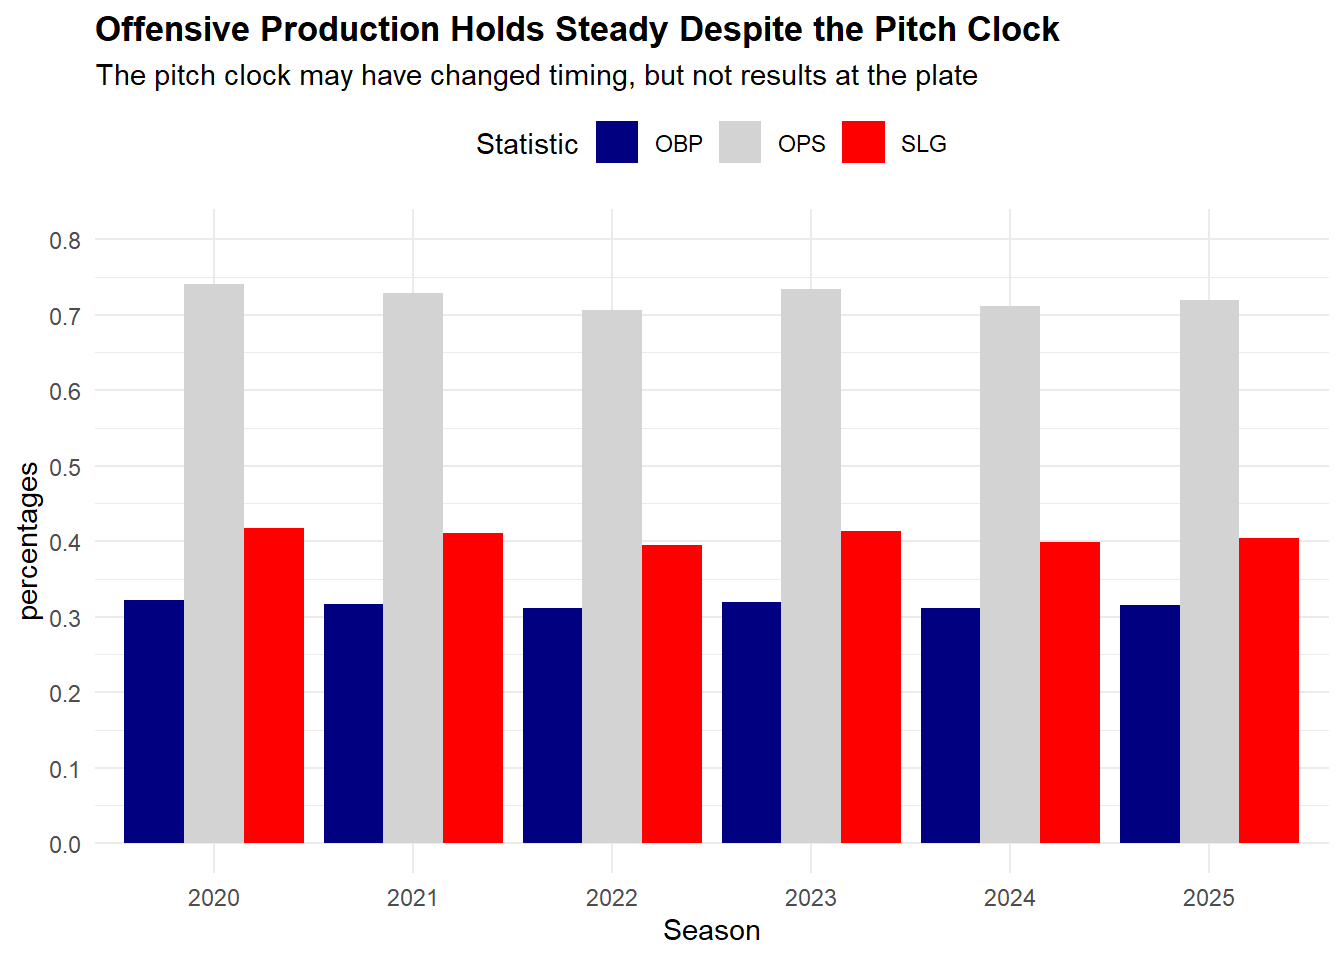
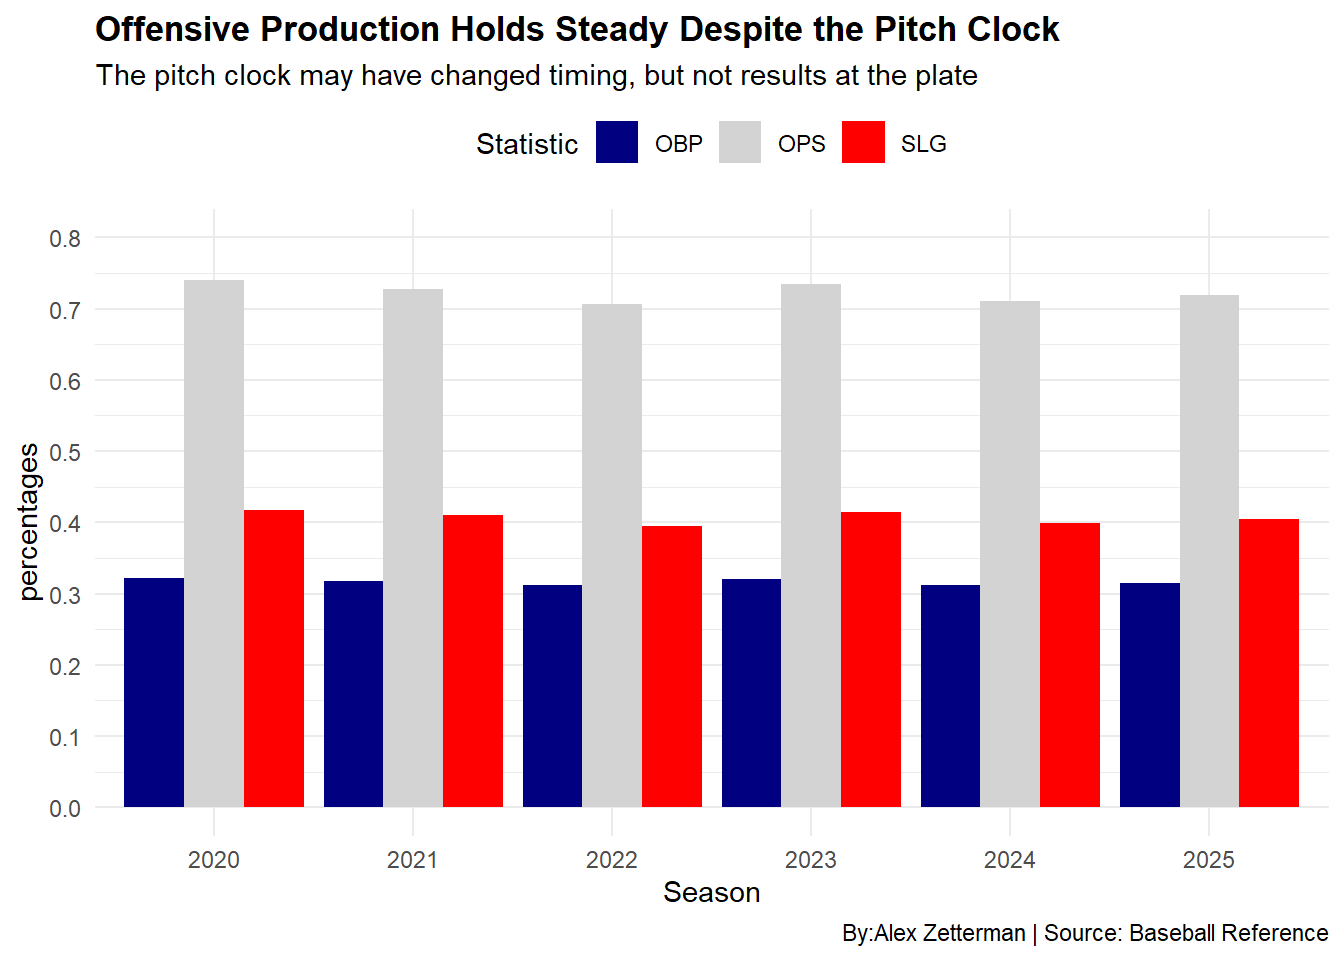
edit

diff --git a/posts/MLB-Pitch-Clock/index.html b/posts/MLB-Pitch-Clock/index.html
@@ -460,15 +460,16 @@ dbl (29): Year, Tms, #Bat, BatAge, R/G, G, PA, AB, R, H, 1B, 2B, 3B, HR, SB,...
 <span id="cb8-27"><a href="#cb8-27" aria-hidden="true" tabindex="-1"></a>  <span class="fu">labs</span>(</span>
 <span id="cb8-28"><a href="#cb8-28" aria-hidden="true" tabindex="-1"></a>    <span class="at">title =</span> <span class="st">"Offensive Production Holds Steady Despite the Pitch Clock"</span>,</span>
 <span id="cb8-29"><a href="#cb8-29" aria-hidden="true" tabindex="-1"></a>    <span class="at">subtitle=</span> <span class="st">"The pitch clock may have changed timing, but not results at the plate"</span>,</span>
-<span id="cb8-30"><a href="#cb8-30" aria-hidden="true" tabindex="-1"></a>    <span class="at">x =</span> <span class="st">"Season"</span>,</span>
-<span id="cb8-31"><a href="#cb8-31" aria-hidden="true" tabindex="-1"></a>    <span class="at">y =</span> <span class="st">"percentages"</span>,</span>
-<span id="cb8-32"><a href="#cb8-32" aria-hidden="true" tabindex="-1"></a>    <span class="at">fill =</span> <span class="st">"Statistic"</span></span>
-<span id="cb8-33"><a href="#cb8-33" aria-hidden="true" tabindex="-1"></a>  ) <span class="sc">+</span></span>
-<span id="cb8-34"><a href="#cb8-34" aria-hidden="true" tabindex="-1"></a>  <span class="fu">theme_minimal</span>(<span class="at">base_size =</span> <span class="dv">11</span>) <span class="sc">+</span></span>
-<span id="cb8-35"><a href="#cb8-35" aria-hidden="true" tabindex="-1"></a>  <span class="fu">theme</span>(</span>
-<span id="cb8-36"><a href="#cb8-36" aria-hidden="true" tabindex="-1"></a>    <span class="at">plot.title =</span> <span class="fu">element_text</span>(<span class="at">face =</span> <span class="st">"bold"</span>),</span>
-<span id="cb8-37"><a href="#cb8-37" aria-hidden="true" tabindex="-1"></a>    <span class="at">legend.position =</span> <span class="st">"top"</span></span>
-<span id="cb8-38"><a href="#cb8-38" aria-hidden="true" tabindex="-1"></a>  )</span></code></pre></div><button title="Copy to Clipboard" class="code-copy-button"><i class="bi"></i></button></div>
+<span id="cb8-30"><a href="#cb8-30" aria-hidden="true" tabindex="-1"></a>    <span class="at">caption =</span> <span class="st">"By:Alex Zetterman | Source: Baseball Reference"</span>,</span>
+<span id="cb8-31"><a href="#cb8-31" aria-hidden="true" tabindex="-1"></a>    <span class="at">x =</span> <span class="st">"Season"</span>,</span>
+<span id="cb8-32"><a href="#cb8-32" aria-hidden="true" tabindex="-1"></a>    <span class="at">y =</span> <span class="st">"percentages"</span>,</span>
+<span id="cb8-33"><a href="#cb8-33" aria-hidden="true" tabindex="-1"></a>    <span class="at">fill =</span> <span class="st">"Statistic"</span></span>
+<span id="cb8-34"><a href="#cb8-34" aria-hidden="true" tabindex="-1"></a>  ) <span class="sc">+</span></span>
+<span id="cb8-35"><a href="#cb8-35" aria-hidden="true" tabindex="-1"></a>  <span class="fu">theme_minimal</span>(<span class="at">base_size =</span> <span class="dv">11</span>) <span class="sc">+</span></span>
+<span id="cb8-36"><a href="#cb8-36" aria-hidden="true" tabindex="-1"></a>  <span class="fu">theme</span>(</span>
+<span id="cb8-37"><a href="#cb8-37" aria-hidden="true" tabindex="-1"></a>    <span class="at">plot.title =</span> <span class="fu">element_text</span>(<span class="at">face =</span> <span class="st">"bold"</span>),</span>
+<span id="cb8-38"><a href="#cb8-38" aria-hidden="true" tabindex="-1"></a>    <span class="at">legend.position =</span> <span class="st">"top"</span></span>
+<span id="cb8-39"><a href="#cb8-39" aria-hidden="true" tabindex="-1"></a>  )</span></code></pre></div><button title="Copy to Clipboard" class="code-copy-button"><i class="bi"></i></button></div>
 </details>
 <div class="cell-output-display">
 <div>
@@ -478,46 +479,45 @@ dbl (29): Year, Tms, #Bat, BatAge, R/G, G, PA, AB, R, H, 1B, 2B, 3B, HR, SB,...
 </div>
 </div>
 </div>
-<pre><code></code></pre>
-<p>```{r}#| include: false} ggsave(“image.png”)</p>
 <p>At first glance, the pitch clock doesn’t seem to have shaken up offensive production. League-wide OPS, OBP, and SLG have held steady from 2020 through 2025, suggesting that hitters aren’t necessarily getting on base more or hitting for more power. But, offensive stats like OPS,OBP, and SLG only tell part of the story. The pitch clock didn’t necessarily change how much offense was involved, it just changed how teams got their offense going.</p>
 <p>To really understand whether hitters were rushing their swings or putting more balls in play, we can look at the Contact Efficiency Ratio the number of balls in play (BIP) for every strikeout (SO). This metric shows whether faster tempo led to more action or just more whiffs.</p>
 <div class="cell">
 <details class="code-fold">
 <summary>Code</summary>
-<div class="code-copy-outer-scaffold"><div class="sourceCode cell-code" id="cb10"><pre class="sourceCode r code-with-copy"><code class="sourceCode r"><span id="cb10-1"><a href="#cb10-1" aria-hidden="true" tabindex="-1"></a><span class="fu">library</span>(tidyverse)</span>
-<span id="cb10-2"><a href="#cb10-2" aria-hidden="true" tabindex="-1"></a></span>
-<span id="cb10-3"><a href="#cb10-3" aria-hidden="true" tabindex="-1"></a>contact_eff <span class="ot">&lt;-</span> MLB <span class="sc">|&gt;</span></span>
-<span id="cb10-4"><a href="#cb10-4" aria-hidden="true" tabindex="-1"></a>  <span class="fu">filter</span>(Year <span class="sc">&gt;=</span> <span class="dv">2020</span> <span class="sc">&amp;</span> Year <span class="sc">&lt;=</span> <span class="dv">2025</span>) <span class="sc">|&gt;</span></span>
-<span id="cb10-5"><a href="#cb10-5" aria-hidden="true" tabindex="-1"></a>  <span class="fu">group_by</span>(Year) <span class="sc">|&gt;</span></span>
-<span id="cb10-6"><a href="#cb10-6" aria-hidden="true" tabindex="-1"></a>  <span class="fu">summarise</span>(</span>
-<span id="cb10-7"><a href="#cb10-7" aria-hidden="true" tabindex="-1"></a>    <span class="at">Total_BIP =</span> <span class="fu">sum</span>(BIP, <span class="at">na.rm =</span> <span class="cn">TRUE</span>),</span>
-<span id="cb10-8"><a href="#cb10-8" aria-hidden="true" tabindex="-1"></a>    <span class="at">Total_SO =</span> <span class="fu">sum</span>(SO, <span class="at">na.rm =</span> <span class="cn">TRUE</span>),</span>
-<span id="cb10-9"><a href="#cb10-9" aria-hidden="true" tabindex="-1"></a>    <span class="at">Contact_Efficiency =</span> Total_BIP <span class="sc">/</span> Total_SO</span>
-<span id="cb10-10"><a href="#cb10-10" aria-hidden="true" tabindex="-1"></a>  )</span>
-<span id="cb10-11"><a href="#cb10-11" aria-hidden="true" tabindex="-1"></a></span>
-<span id="cb10-12"><a href="#cb10-12" aria-hidden="true" tabindex="-1"></a><span class="co"># Line chart</span></span>
-<span id="cb10-13"><a href="#cb10-13" aria-hidden="true" tabindex="-1"></a><span class="fu">ggplot</span>(contact_eff, <span class="fu">aes</span>(<span class="at">x =</span> Year, <span class="at">y =</span> Contact_Efficiency)) <span class="sc">+</span></span>
-<span id="cb10-14"><a href="#cb10-14" aria-hidden="true" tabindex="-1"></a>  <span class="fu">geom_line</span>(<span class="at">color =</span> <span class="st">"lightblue"</span>, <span class="at">size =</span> <span class="fl">1.2</span>) <span class="sc">+</span></span>
-<span id="cb10-15"><a href="#cb10-15" aria-hidden="true" tabindex="-1"></a>  <span class="fu">geom_point</span>(<span class="at">color =</span> <span class="st">"black"</span>, <span class="at">size =</span> <span class="fl">2.5</span>) <span class="sc">+</span></span>
-<span id="cb10-16"><a href="#cb10-16" aria-hidden="true" tabindex="-1"></a>  </span>
-<span id="cb10-17"><a href="#cb10-17" aria-hidden="true" tabindex="-1"></a>  <span class="fu">geom_vline</span>(<span class="at">xintercept =</span> <span class="dv">2023</span>, <span class="at">linetype =</span> <span class="st">"dashed"</span>, <span class="at">color =</span> <span class="st">"red"</span>, <span class="at">size =</span> <span class="dv">1</span>) <span class="sc">+</span></span>
-<span id="cb10-18"><a href="#cb10-18" aria-hidden="true" tabindex="-1"></a>  <span class="fu">annotate</span>(<span class="st">"text"</span>, <span class="at">x =</span> <span class="fl">2023.1</span>, <span class="at">y =</span> <span class="fu">max</span>(contact_eff<span class="sc">$</span>Contact_Efficiency, <span class="at">na.rm =</span> <span class="cn">TRUE</span>),</span>
-<span id="cb10-19"><a href="#cb10-19" aria-hidden="true" tabindex="-1"></a>           <span class="at">label =</span> <span class="st">"Pitch Clock Introduced (2023)"</span>,</span>
-<span id="cb10-20"><a href="#cb10-20" aria-hidden="true" tabindex="-1"></a>           <span class="at">hjust =</span> <span class="dv">0</span>, <span class="at">vjust =</span> <span class="dv">1</span>, <span class="at">color =</span> <span class="st">"red"</span>, <span class="at">size =</span> <span class="dv">3</span>, <span class="at">fontface =</span> <span class="st">"italic"</span>) <span class="sc">+</span></span>
-<span id="cb10-21"><a href="#cb10-21" aria-hidden="true" tabindex="-1"></a>  </span>
-<span id="cb10-22"><a href="#cb10-22" aria-hidden="true" tabindex="-1"></a>  <span class="fu">labs</span>(</span>
-<span id="cb10-23"><a href="#cb10-23" aria-hidden="true" tabindex="-1"></a>    <span class="at">title =</span> <span class="st">"After a 2023 Dip, Contact Rates Begin to Recover"</span>,</span>
-<span id="cb10-24"><a href="#cb10-24" aria-hidden="true" tabindex="-1"></a>    <span class="at">subtitle =</span> <span class="st">"Year-to-year changes in BIP/SO indicate gradual adaptation to pitch clock conditions"</span>,</span>
-<span id="cb10-25"><a href="#cb10-25" aria-hidden="true" tabindex="-1"></a>    <span class="at">x =</span> <span class="st">"Season"</span>,</span>
-<span id="cb10-26"><a href="#cb10-26" aria-hidden="true" tabindex="-1"></a>    <span class="at">y =</span> <span class="st">"Balls in play per strikeout"</span>,</span>
-<span id="cb10-27"><a href="#cb10-27" aria-hidden="true" tabindex="-1"></a>    <span class="at">caption =</span> <span class="st">"Data Source: MLB Team Batting Totals"</span></span>
-<span id="cb10-28"><a href="#cb10-28" aria-hidden="true" tabindex="-1"></a>  ) <span class="sc">+</span></span>
-<span id="cb10-29"><a href="#cb10-29" aria-hidden="true" tabindex="-1"></a>  <span class="fu">theme_minimal</span>(<span class="at">base_size =</span> <span class="dv">10</span>) <span class="sc">+</span></span>
-<span id="cb10-30"><a href="#cb10-30" aria-hidden="true" tabindex="-1"></a>  <span class="fu">theme</span>(</span>
-<span id="cb10-31"><a href="#cb10-31" aria-hidden="true" tabindex="-1"></a>    <span class="at">plot.title =</span> <span class="fu">element_text</span>(<span class="at">face =</span> <span class="st">"bold"</span>, <span class="at">size=</span> <span class="dv">15</span>),</span>
-<span id="cb10-32"><a href="#cb10-32" aria-hidden="true" tabindex="-1"></a>    <span class="at">panel.grid.minor =</span> <span class="fu">element_blank</span>()</span>
-<span id="cb10-33"><a href="#cb10-33" aria-hidden="true" tabindex="-1"></a>  )</span></code></pre></div><button title="Copy to Clipboard" class="code-copy-button"><i class="bi"></i></button></div>
+<div class="code-copy-outer-scaffold"><div class="sourceCode cell-code" id="cb9"><pre class="sourceCode r code-with-copy"><code class="sourceCode r"><span id="cb9-1"><a href="#cb9-1" aria-hidden="true" tabindex="-1"></a><span class="fu">library</span>(tidyverse)</span>
+<span id="cb9-2"><a href="#cb9-2" aria-hidden="true" tabindex="-1"></a></span>
+<span id="cb9-3"><a href="#cb9-3" aria-hidden="true" tabindex="-1"></a>contact_eff <span class="ot">&lt;-</span> MLB <span class="sc">|&gt;</span></span>
+<span id="cb9-4"><a href="#cb9-4" aria-hidden="true" tabindex="-1"></a>  <span class="fu">filter</span>(Year <span class="sc">&gt;=</span> <span class="dv">2020</span> <span class="sc">&amp;</span> Year <span class="sc">&lt;=</span> <span class="dv">2025</span>) <span class="sc">|&gt;</span></span>
+<span id="cb9-5"><a href="#cb9-5" aria-hidden="true" tabindex="-1"></a>  <span class="fu">group_by</span>(Year) <span class="sc">|&gt;</span></span>
+<span id="cb9-6"><a href="#cb9-6" aria-hidden="true" tabindex="-1"></a>  <span class="fu">summarise</span>(</span>
+<span id="cb9-7"><a href="#cb9-7" aria-hidden="true" tabindex="-1"></a>    <span class="at">Total_BIP =</span> <span class="fu">sum</span>(BIP, <span class="at">na.rm =</span> <span class="cn">TRUE</span>),</span>
+<span id="cb9-8"><a href="#cb9-8" aria-hidden="true" tabindex="-1"></a>    <span class="at">Total_SO =</span> <span class="fu">sum</span>(SO, <span class="at">na.rm =</span> <span class="cn">TRUE</span>),</span>
+<span id="cb9-9"><a href="#cb9-9" aria-hidden="true" tabindex="-1"></a>    <span class="at">Contact_Efficiency =</span> Total_BIP <span class="sc">/</span> Total_SO</span>
+<span id="cb9-10"><a href="#cb9-10" aria-hidden="true" tabindex="-1"></a>  )</span>
+<span id="cb9-11"><a href="#cb9-11" aria-hidden="true" tabindex="-1"></a></span>
+<span id="cb9-12"><a href="#cb9-12" aria-hidden="true" tabindex="-1"></a><span class="co"># Line chart</span></span>
+<span id="cb9-13"><a href="#cb9-13" aria-hidden="true" tabindex="-1"></a><span class="fu">ggplot</span>(contact_eff, <span class="fu">aes</span>(<span class="at">x =</span> Year, <span class="at">y =</span> Contact_Efficiency)) <span class="sc">+</span></span>
+<span id="cb9-14"><a href="#cb9-14" aria-hidden="true" tabindex="-1"></a>  <span class="fu">geom_line</span>(<span class="at">color =</span> <span class="st">"lightblue"</span>, <span class="at">size =</span> <span class="fl">1.2</span>) <span class="sc">+</span></span>
+<span id="cb9-15"><a href="#cb9-15" aria-hidden="true" tabindex="-1"></a>  <span class="fu">geom_point</span>(<span class="at">color =</span> <span class="st">"black"</span>, <span class="at">size =</span> <span class="fl">2.5</span>) <span class="sc">+</span></span>
+<span id="cb9-16"><a href="#cb9-16" aria-hidden="true" tabindex="-1"></a>  </span>
+<span id="cb9-17"><a href="#cb9-17" aria-hidden="true" tabindex="-1"></a>  <span class="fu">geom_vline</span>(<span class="at">xintercept =</span> <span class="dv">2023</span>, <span class="at">linetype =</span> <span class="st">"dashed"</span>, <span class="at">color =</span> <span class="st">"red"</span>, <span class="at">size =</span> <span class="dv">1</span>) <span class="sc">+</span></span>
+<span id="cb9-18"><a href="#cb9-18" aria-hidden="true" tabindex="-1"></a>  <span class="fu">annotate</span>(<span class="st">"text"</span>, <span class="at">x =</span> <span class="fl">2023.1</span>, <span class="at">y =</span> <span class="fu">max</span>(contact_eff<span class="sc">$</span>Contact_Efficiency, <span class="at">na.rm =</span> <span class="cn">TRUE</span>),</span>
+<span id="cb9-19"><a href="#cb9-19" aria-hidden="true" tabindex="-1"></a>           <span class="at">label =</span> <span class="st">"Pitch Clock Introduced (2023)"</span>,</span>
+<span id="cb9-20"><a href="#cb9-20" aria-hidden="true" tabindex="-1"></a>           <span class="at">hjust =</span> <span class="dv">0</span>, <span class="at">vjust =</span> <span class="dv">1</span>, <span class="at">color =</span> <span class="st">"red"</span>, <span class="at">size =</span> <span class="dv">3</span>, <span class="at">fontface =</span> <span class="st">"italic"</span>) <span class="sc">+</span></span>
+<span id="cb9-21"><a href="#cb9-21" aria-hidden="true" tabindex="-1"></a>  </span>
+<span id="cb9-22"><a href="#cb9-22" aria-hidden="true" tabindex="-1"></a>  <span class="fu">labs</span>(</span>
+<span id="cb9-23"><a href="#cb9-23" aria-hidden="true" tabindex="-1"></a>    <span class="at">title =</span> <span class="st">"After a 2023 Dip, Contact Rates Begin to Recover"</span>,</span>
+<span id="cb9-24"><a href="#cb9-24" aria-hidden="true" tabindex="-1"></a>    <span class="at">subtitle =</span> <span class="st">"Year-to-year changes in BIP/SO indicate gradual adaptation to pitch clock conditions"</span>,</span>
+<span id="cb9-25"><a href="#cb9-25" aria-hidden="true" tabindex="-1"></a>    <span class="at">caption =</span> <span class="st">"By:Alex Zetterman | Source: Baseball Reference"</span>,</span>
+<span id="cb9-26"><a href="#cb9-26" aria-hidden="true" tabindex="-1"></a>    <span class="at">x =</span> <span class="st">"Season"</span>,</span>
+<span id="cb9-27"><a href="#cb9-27" aria-hidden="true" tabindex="-1"></a>    <span class="at">y =</span> <span class="st">"Balls in play per strikeout"</span>,</span>
+<span id="cb9-28"><a href="#cb9-28" aria-hidden="true" tabindex="-1"></a></span>
+<span id="cb9-29"><a href="#cb9-29" aria-hidden="true" tabindex="-1"></a>  ) <span class="sc">+</span></span>
+<span id="cb9-30"><a href="#cb9-30" aria-hidden="true" tabindex="-1"></a>  <span class="fu">theme_minimal</span>(<span class="at">base_size =</span> <span class="dv">10</span>) <span class="sc">+</span></span>
+<span id="cb9-31"><a href="#cb9-31" aria-hidden="true" tabindex="-1"></a>  <span class="fu">theme</span>(</span>
+<span id="cb9-32"><a href="#cb9-32" aria-hidden="true" tabindex="-1"></a>    <span class="at">plot.title =</span> <span class="fu">element_text</span>(<span class="at">face =</span> <span class="st">"bold"</span>, <span class="at">size=</span> <span class="dv">15</span>),</span>
+<span id="cb9-33"><a href="#cb9-33" aria-hidden="true" tabindex="-1"></a>    <span class="at">panel.grid.minor =</span> <span class="fu">element_blank</span>()</span>
+<span id="cb9-34"><a href="#cb9-34" aria-hidden="true" tabindex="-1"></a>  )</span></code></pre></div><button title="Copy to Clipboard" class="code-copy-button"><i class="bi"></i></button></div>
 </details>
 <div class="cell-output cell-output-stderr">
 <pre><code>Warning: Using `size` aesthetic for lines was deprecated in ggplot2 3.4.0.
@@ -526,7 +526,7 @@ dbl (29): Year, Tms, #Bat, BatAge, R/G, G, PA, AB, R, H, 1B, 2B, 3B, HR, SB,...
 <div class="cell-output-display">
 <div>
 <figure class="figure">
-<p><img src="index_files/figure-html/unnamed-chunk-2-1.png" class="img-fluid figure-img" width="672"></p>
+<p><img src="index_files/figure-html/unnamed-chunk-3-1.png" class="img-fluid figure-img" width="672"></p>
 </figure>
 </div>
 </div>

diff --git a/index.html b/index.html
@@ -378,7 +378,7 @@ window.Quarto = {
 
 <div class="quarto-listing quarto-listing-container-default" id="listing-listing">
 <div class="list quarto-listing-default">
-<div class="quarto-post image-right" data-index="0" data-categories="TUxC" data-listing-date-sort="1762927200000" data-listing-file-modified-sort="1763006362789" data-listing-date-modified-sort="NaN" data-listing-reading-time-sort="5" data-listing-word-count-sort="851">
+<div class="quarto-post image-right" data-index="0" data-categories="TUxC" data-listing-date-sort="1762927200000" data-listing-file-modified-sort="1763061530685" data-listing-date-modified-sort="NaN" data-listing-reading-time-sort="5" data-listing-word-count-sort="852">
 <div class="thumbnail"><a href="./posts/MLB-Pitch-Clock/index.html" class="no-external">
 
 <img loading="lazy" src="./posts/MLB-Pitch-Clock/image.png" class="thumbnail-image">
